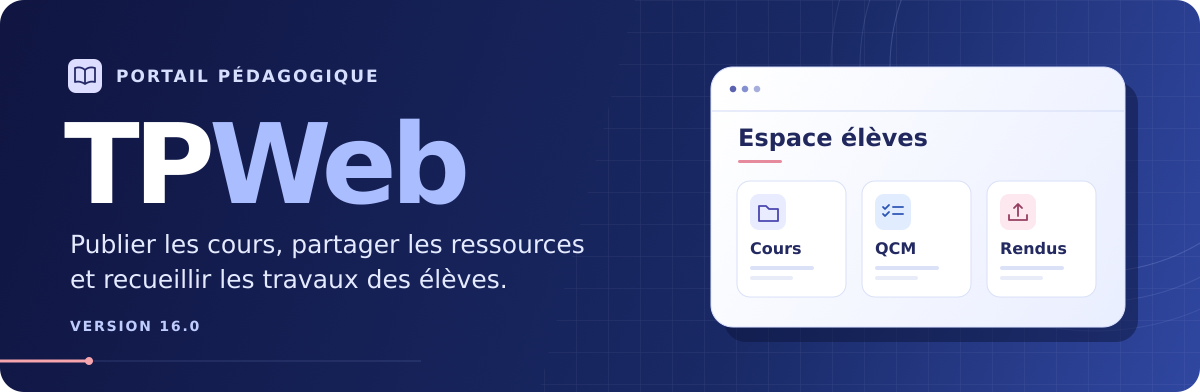
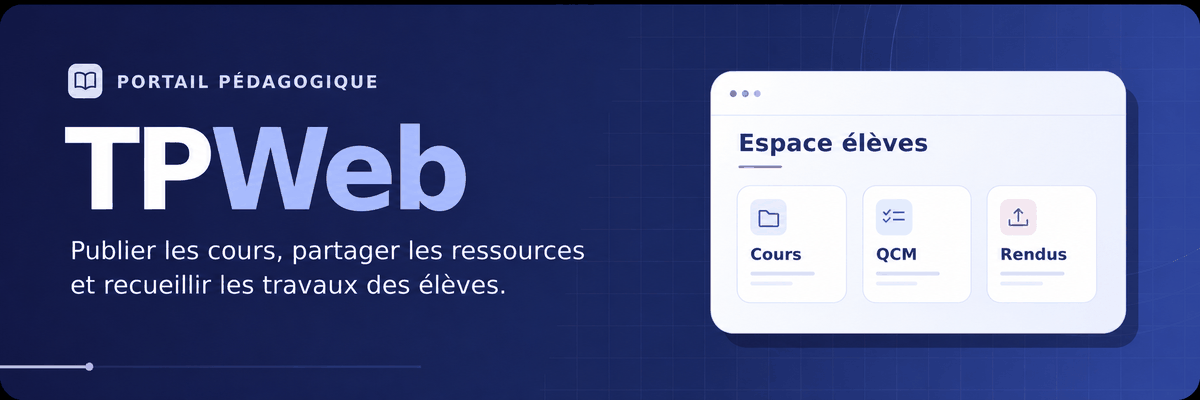
docs: mettre à jour la documentation pour TPWeb 17.0

diff --git a/README.md b/README.md
@@ -1,14 +1,16 @@
 <h1 align="center">
-  <img src="docs/images/tpweb-cover.png" alt="TPWeb 16.0 — Portail pédagogique" width="1200">
+  <img src="docs/images/tpweb-cover.png" alt="TPWeb — Portail pédagogique" width="1200">
 </h1>
 
 <p align="center">
+  <strong>Version 17.0</strong><br>
   Un portail pédagogique auto-hébergé pour les collèges et les lycées.<br>
   Les enseignants publient leurs supports par classe. Les élèves les consultent et rendent leurs travaux depuis leur navigateur.
 </p>
 
 <p align="center">
   <a href="#prise-en-main">Prise en main</a> ·
+  <a href="#nouveautés-de-la-version-170">Nouveautés 17.0</a> ·
   <a href="#fonctionnalités">Fonctionnalités</a> ·
   <a href="#installation">Installation</a> ·
   <a href="#administration">Administration</a> ·
@@ -23,25 +25,34 @@
 | **Enseignants** | Espace enseignant (`admin.php`) | Organiser sa bibliothèque, publier des documents pour ses classes, projeter un support et récupérer les rendus. |
 | **Administration** | Paramètres de l’espace enseignant | Configurer l’établissement, les classes, les comptes, les droits, la connexion ENT et les sauvegardes. |
 
+## Nouveautés de la version 17.0
+
+| Fonction | Ce que vous pouvez faire |
+| --- | --- |
+| **Suivi des rendus** | Distinguer les travaux reçus et manquants à partir de la liste de classe, relancer les élèves et publier une note ou un commentaire. |
+| **Corrigés programmés** | Publier un fichier ou un sous-dossier à la fermeture d’un dépôt, ou différer la correction d’un QCM jusqu’à sa fermeture. |
+| **Statistiques de consultation** | Voir les ouvertures par classe, les ressources les plus consultées et le suivi nominatif des élèves connectés par l’ENT. |
+| **Première connexion ENT des élèves** | Traiter les demandes d’accès depuis **Élèves** ou activer la création automatique si l’ENT transmet le nom, le prénom et une classe reconnue. |
+| **Signalements** | Envoyer un bug ou une idée depuis le portail. L’administration peut répondre et mettre à jour le statut. |
+
 ## Fonctionnalités
 
 - **Ressources et publications.** Import d’arborescences ZIP, aperçu intégré des cours HTML, PDF et médias, publication programmée par classe ou groupe et partage de dossiers entre enseignants.
 - **Travaux à rendre.** Échéances, dépôts individuels ou en groupe, gestion des retards, reçu imprimable et téléchargement groupé des rendus.
 - **Travail en classe.** QCM autocorrigés avec résultats exportables en CSV, projection plein écran et mode examen avec durée adaptée pour les groupes concernés.
 - **Lecture et navigation.** Recherche dans les ressources, interface adaptée aux mobiles, thème clair ou sombre et réglages de lisibilité.
-- **Comptes et stockage.** Rôles et droits par enseignant, connexion ENT via CAS, double authentification TOTP, quotas et sauvegardes planifiées.
+- **Comptes et stockage.** Rôles et droits par enseignant, connexion ENT via CAS pour les enseignants et les élèves, double authentification TOTP pour les comptes enseignants, quotas et sauvegardes planifiées.
 
 > [!TIP]
 > Avec LibreOffice installé sur le serveur, TPWeb convertit les documents Word, PowerPoint et les tableurs en PDF pour les afficher dans le portail.
 
 ## Installation
 
-> [!IMPORTANT]
-> Ce dépôt contient les points d’entrée PHP et la documentation. Pour démarrer TPWeb, utilisez la distribution complète avec les dossiers `inc/` et `assets/` référencés par l’application.
+Récupérez la branche `main` via **Code → Download ZIP** ou clonez le dépôt avec Git. Le dépôt contient les pages PHP, les modules dans [`inc/`](inc/) et les ressources d’interface dans [`assets/`](assets/). TPWeb stocke ses données dans `TPWebData` et fonctionne sans serveur de base de données.
 
 ### Démarrage avec XAMPP
 
-1. Placez la distribution complète dans `C:\xampp\htdocs\TPWeb`.
+1. Décompressez le ZIP et placez le contenu du projet dans `C:\xampp\htdocs\TPWeb`. Le fichier `admin.php` doit se trouver directement dans ce dossier.
 2. Démarrez **Apache** depuis le panneau XAMPP, puis ouvrez [l’espace enseignant en local](http://localhost/TPWeb/admin.php).
 3. Créez le compte administrateur. Configurez le nom de l’établissement, les niveaux et les classes.
 4. Ajoutez des ressources dans **Bibliothèque** et publiez-les pour une classe.
@@ -61,4 +72,4 @@ Ces chemins correspondent à XAMPP sous Windows. Si votre installation utilise u
 | **Mettre à jour TPWeb** | Sauvegardez le dossier de l’application et `TPWebData`, puis suivez la procédure de mise à jour du manuel. |
 | **Configurer les mentions légales** | Renseignez les informations de l’établissement affichées dans le portail. Le manuel détaille le journal d’activité et les durées de conservation des données. |
 
-Le [manuel complet](docs/manuel-tpweb.md) couvre aussi les réglages PHP, les aperçus LibreOffice, l’exécution planifiée sous Windows ou Docker et l’historique des versions.
+Le [manuel complet](docs/manuel-tpweb.md) détaille aussi l’installation sous Apache, Docker ou Portainer, les réglages PHP, la connexion ENT des élèves et l’exécution des tâches planifiées.
